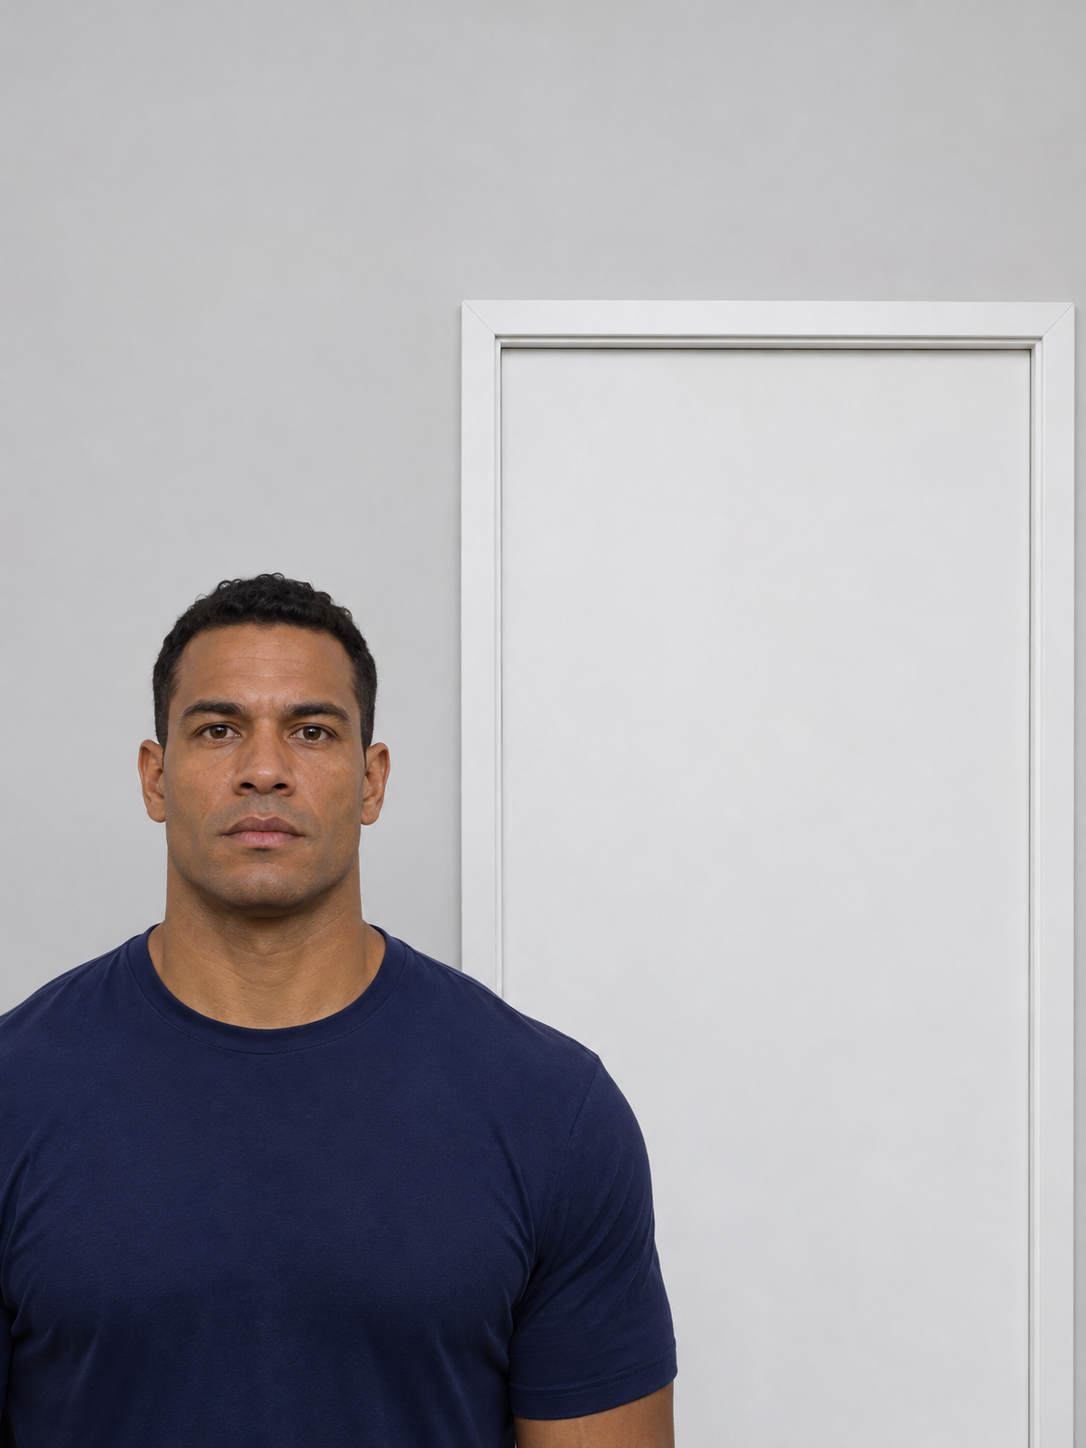
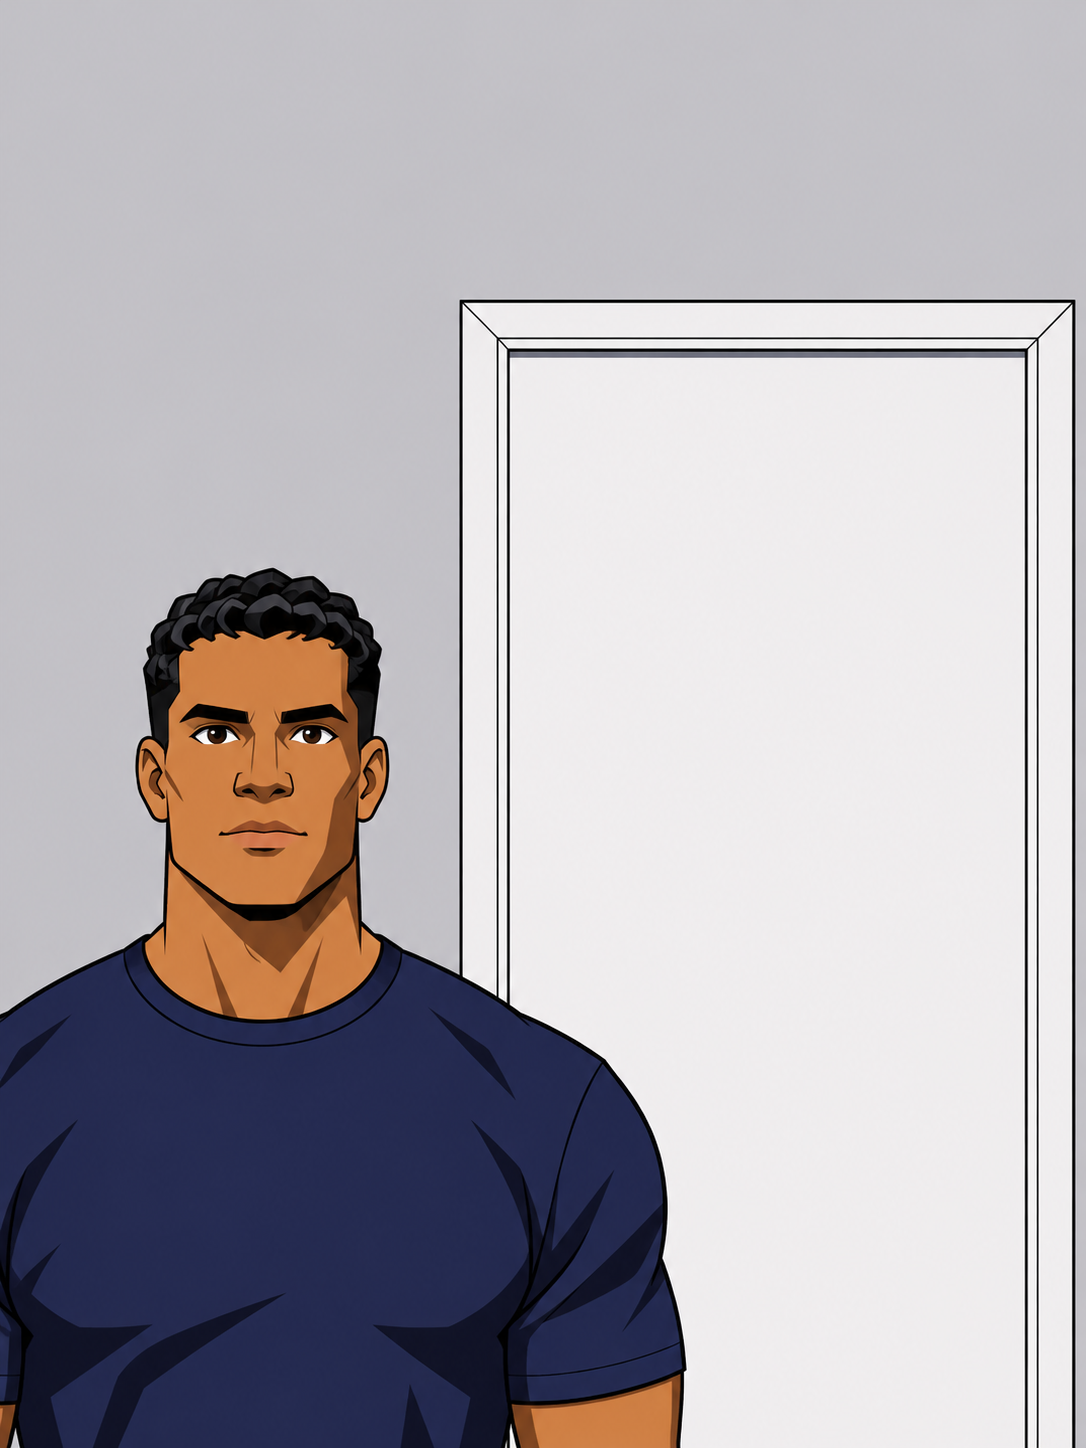
Benchmark inputs: character-style versions of the eight images
Seedance refused the photoreal images as possible real-person likenesses
(HTTP 422 content_policy_violation), so the eight inputs are redrawn in one
non-photoreal character style with the same people, poses, viewpoints and
framings (T3 redrawn with a clear lean).

Changed region(s): [[0.0, 0.1865, 1.0, 1.0], [0.4254, 0.7148, 0.4558, 0.7459]]

diff --git a/tools/build_cases.py b/tools/build_cases.py
@@ -1,4 +1,4 @@
-"""Author benchmark v0.2 tasks: eight AI-generated images of fictional people, each given several everyday action requests.
+"""Author benchmark v0.2 tasks: eight AI-generated character-style images of fictional people (photoreal versions were refused by Seedance as possible real-person likenesses), each given several everyday action requests.
 No model outputs or scores are generated. Image files are copied into benchmark/images/ before running this script."""
 import hashlib, json
 from pathlib import Path
@@ -69,7 +69,7 @@ def build():
    'image': f'images/{img}.png', 'image_sha256': sha(path),
    'initial_state_policy': 'Infer the starting pose from the supplied image; do not reset to T-pose or standing.',
    'novelty_definition': 'relative to seed_dictionary.json, not unseen in model pretraining',
-   'input_type': 'AI-generated photorealistic image of a fictional person (OpenAI image generation, 2026-11)'})
+   'input_type': 'AI-generated character-style (non-photoreal) image of a fictional person (OpenAI image generation, 2026-11)'})
   ok, fail = CRITERIA[family]
   contracts.append({'case_id': cid,
    'requirements': [{'id': 'R1', 'quote': request, 'criterion': f'성공: {ok}. 실패 예: {fail}.', 'mandatory': True}],

diff --git a/docs/PROVENANCE.md b/docs/PROVENANCE.md
@@ -3,7 +3,7 @@
 ## 이 저장소에 포함된 것
 
 - 연구용 문항, 프로토콜, Python 기록/채점 코드: 이번 프로젝트에서 작성.
-- 입력 이미지 8장(`benchmark/images/D1–D4.png`, `T1–T4.png`, v0.2): OpenAI 이미지 생성(2026-11)으로 만든 **실존하지 않는 가상 인물**의 실사풍 이미지다. 8장 모두 다른 인물이며 성별·키·나이·체형을 달리했고, 자세(서기·앉기·기울기·웅크리기), 시점, 화면 범위를 이미지마다 다르게 지정했다. 실존 인물이나 기존 캐릭터를 모사하지 않았다. 해상도는 1086×1448(세로 3:4)이다.
+- 입력 이미지 8장(`benchmark/images/D1–D4.png`, `T1–T4.png`, v0.2): OpenAI 이미지 생성(2026-11)으로 만든 **실존하지 않는 가상 인물**의 캐릭터 그림체(비실사) 이미지다. 8장 모두 다른 인물이며 성별·키·나이·체형을 달리했고, 자세(서기·앉기·기울기·웅크리기), 시점, 화면 범위를 이미지마다 다르게 지정했다. 실존 인물이나 기존 캐릭터를 모사하지 않았다. 해상도는 1086×1448(세로 3:4)이다. 처음에는 같은 구성의 실사풍 이미지를 만들었으나, Seedance(fal.ai)가 "실존 인물의 모습일 수 있다"는 콘텐츠 정책으로 거부하여(HTTP 422, content_policy_violation) 같은 자세·구도의 캐릭터 그림체로 다시 만들었다.
 - 문항 생성: `python tools/build_cases.py` (이미지를 `benchmark/images/`에 둔 뒤 실행하면 해시를 채운다).
 - v0.1의 절차적 마네킹 이미지 24장과 초기 자세 정답 JSON은 v0.2에서 제거했다. 해당 파일과 그로 만든 1~4차 실행(예비 실험)은 git 이력에 남아 있다.
 
